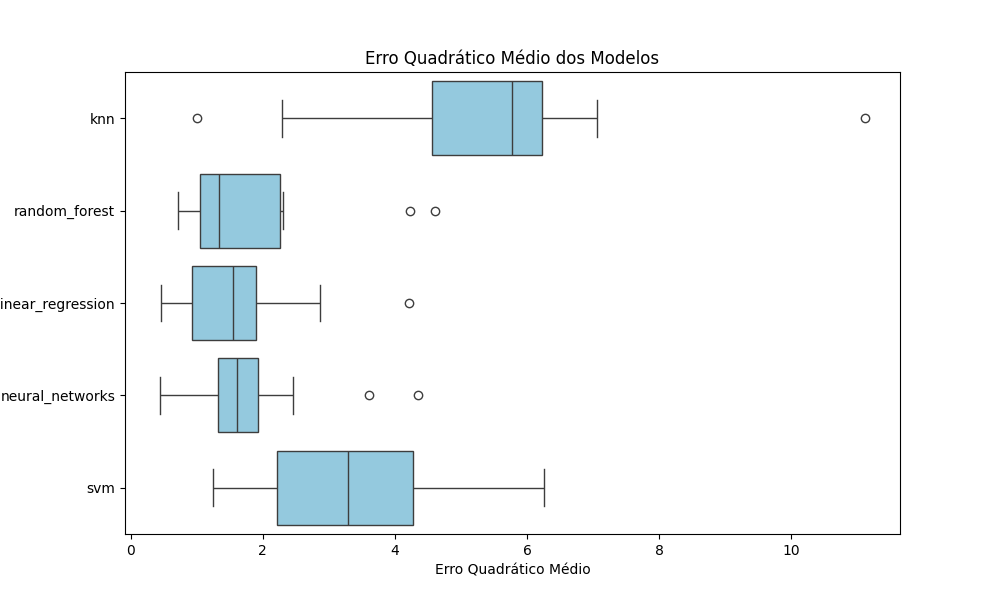
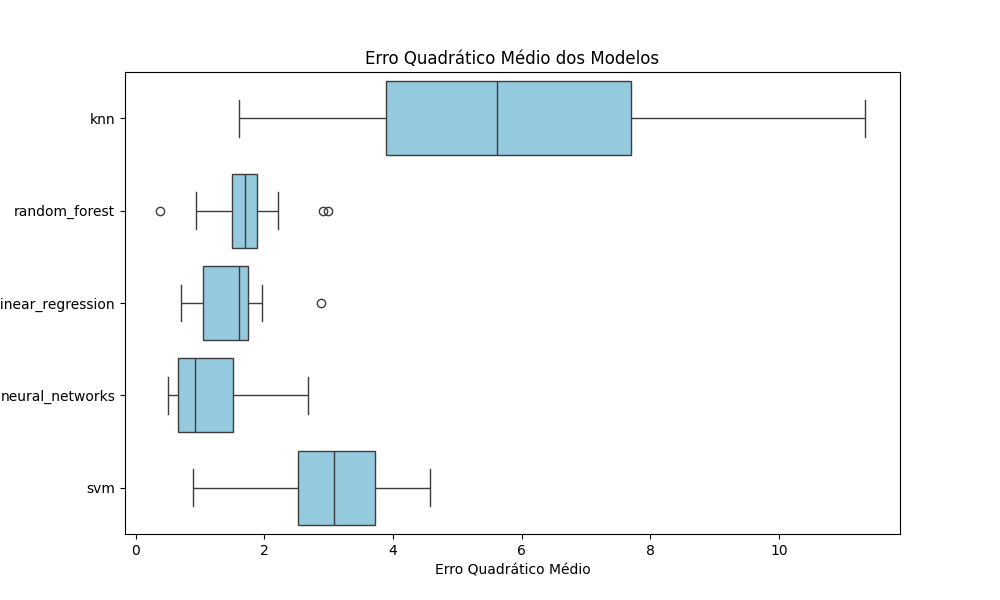
fix: update spot checking results in report (tests not completely reproducible)

diff --git a/report/main.tex b/report/main.tex
@@ -210,15 +210,15 @@ Com esses dados revisitados, a seguir seguem os resultados obtidos pelos modelos
       \rowcolor{lightgray}
       \textbf{Modelo} & \textbf{Média dos MSE} & \textbf{Desvio Padrão dos MSE} \\
       \hline
-      kNN & 5,4293 & 2,3616 \\
+      kNN & 5,8602 & 2,5918 \\
       \hline
-      \textit{Random Forest} & 1,9517 & 1,1847 \\
+      \textit{Random Forest} & 1,7187 & 0,6963 \\
       \hline
-      Regressão Linear & 1,6631 & 0,9758 \\
+      Regressão Linear & 1,5259 & 0,5408 \\
       \hline
-      Redes Neurais & 1,8377 & 1,0418 \\
+      Redes Neurais & 1,1651 & 0,6098 \\
       \hline
-      SVM & 3,3739 & 1,3368 \\
+      SVM & 2,9694 & 1,0808 \\
       \hline
   \end{tabular}
   \caption{\label{table:model_summary} Médias e Desvios Padrões dos MSE}
@@ -230,13 +230,14 @@ Com esses dados revisitados, a seguir seguem os resultados obtidos pelos modelos
   \caption{\label{img:mse_boxplot} \textit{Box Plot} dos MSE}
 \end{figure}
 
-Por fim, com esses resultados, fica claro que os 3 modelos mais promissores foram a \textbf{\textit{Random Forest}}, a \textbf{Regressão Linear} e as \textbf{Redes Neurais}. Como nenhum atributo
-foi otimizado, pode ser que os outros dois modelos se desempenhassem melhor, porém, com as configurações básicas de hiperparâmetros, esses foram os três mais promissores.
+Por fim, com esses resultados, mesmo que os resultados não sejam reproduzíveis exatamente com os mesmos valores a cada vez que o código é executado, fica claro que os 3 modelos mais promissores foram
+a \textbf{\textit{Random Forest}}, a \textbf{Regressão Linear} e as \textbf{Redes Neurais}. Como nenhum atributo foi otimizado, pode ser que os outros dois modelos se desempenhassem melhor, porém, com
+as configurações básicas de hiperparâmetros, esses foram os três mais promissores.
 
-Dentre esses, é perceptível que os mais eficientes nesta tarefa foram o algoritmo de Regressão Linear e o modelo de Redes Neurais, visto que o viés da \textit{Random Forest} é mais elevado quando
-comparado com esses últimos dois. Mesmo que a Regressão Linear apresente média e desvio padrão melhores do que as Redes Neurais, o \textit{box plot} acima mostra que o viés do erro das Redes Neurais
-é mais concentrado, próximo de um valor estável. Por conta dessas razões, serão aprofundados as Florestas Aleatórias, o Regressor Linear e as Redes Neurais, com enfase nos últimos dois durante a
-próxima etapa do projeto.
+Dentre esses, fica claro que os mais eficientes nesta tarefa foram o algoritmo de Regressão Linear e o modelo de Redes Neurais, visto que os erros da \textit{Random Forest} são mais elevados no geral quando
+comparado com esses últimos dois. Mesmo que as Redes Neurais apresentem média melhor do que a Regressão Linear, o desvio padrão da Regressão Linear é melhor comparado ao das Redes Neurais. O \textit{box plot}
+acima reforça que o viés do erro da Regressão Linear é mais concentrado, próximo de um valor estável para este teste. Por conta dessas razões, serão aprofundados a \textit{Random Forest}, o Regressor
+Linear e as Redes Neurais, com enfase nos últimos dois.
 
 \section{Otimização de Hiperparâmetros}
 
